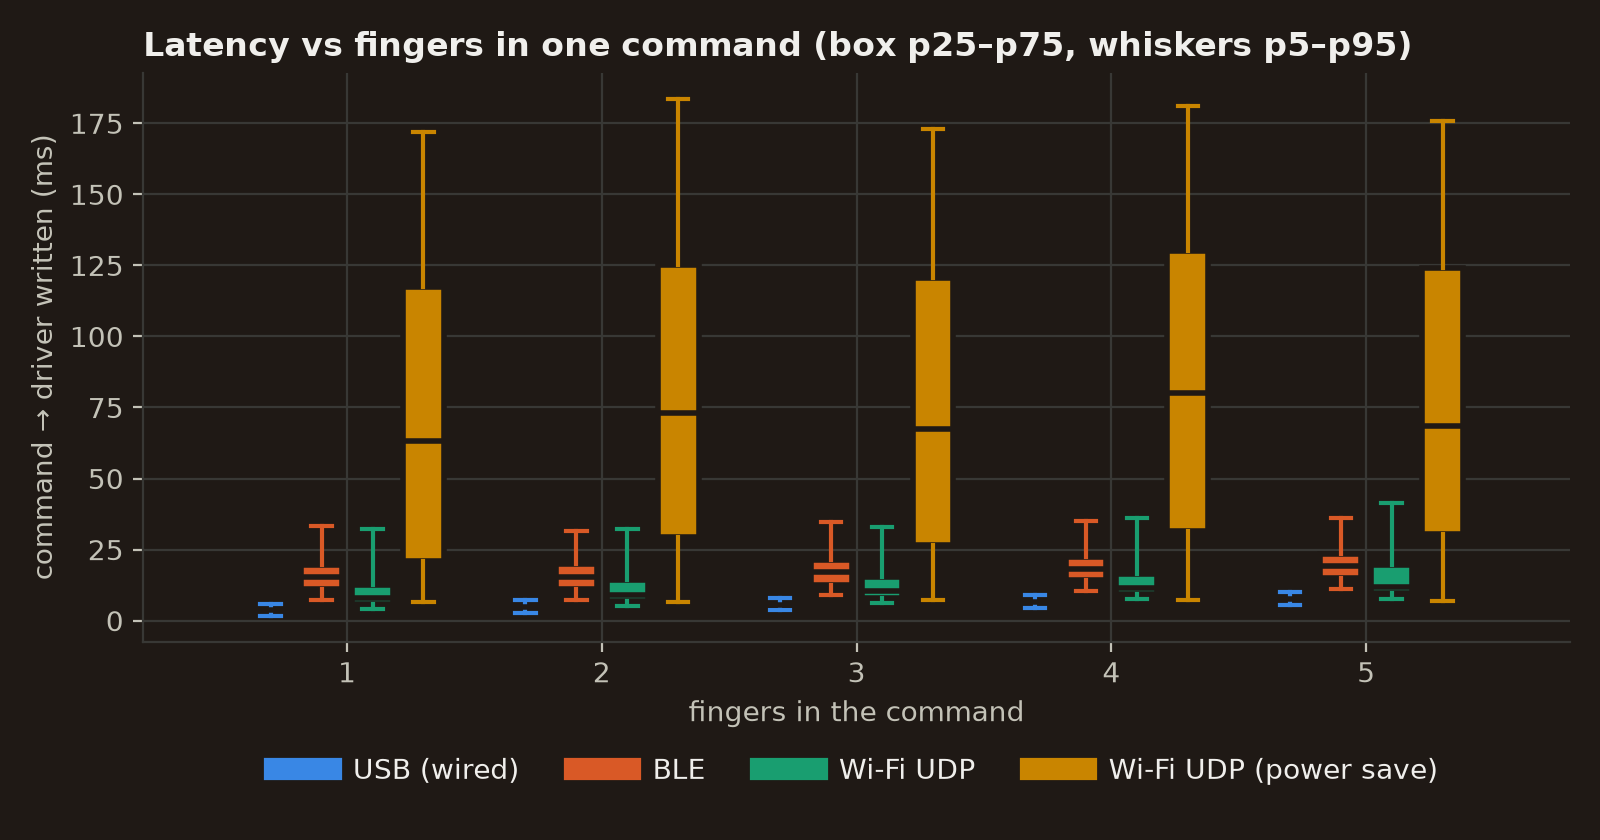
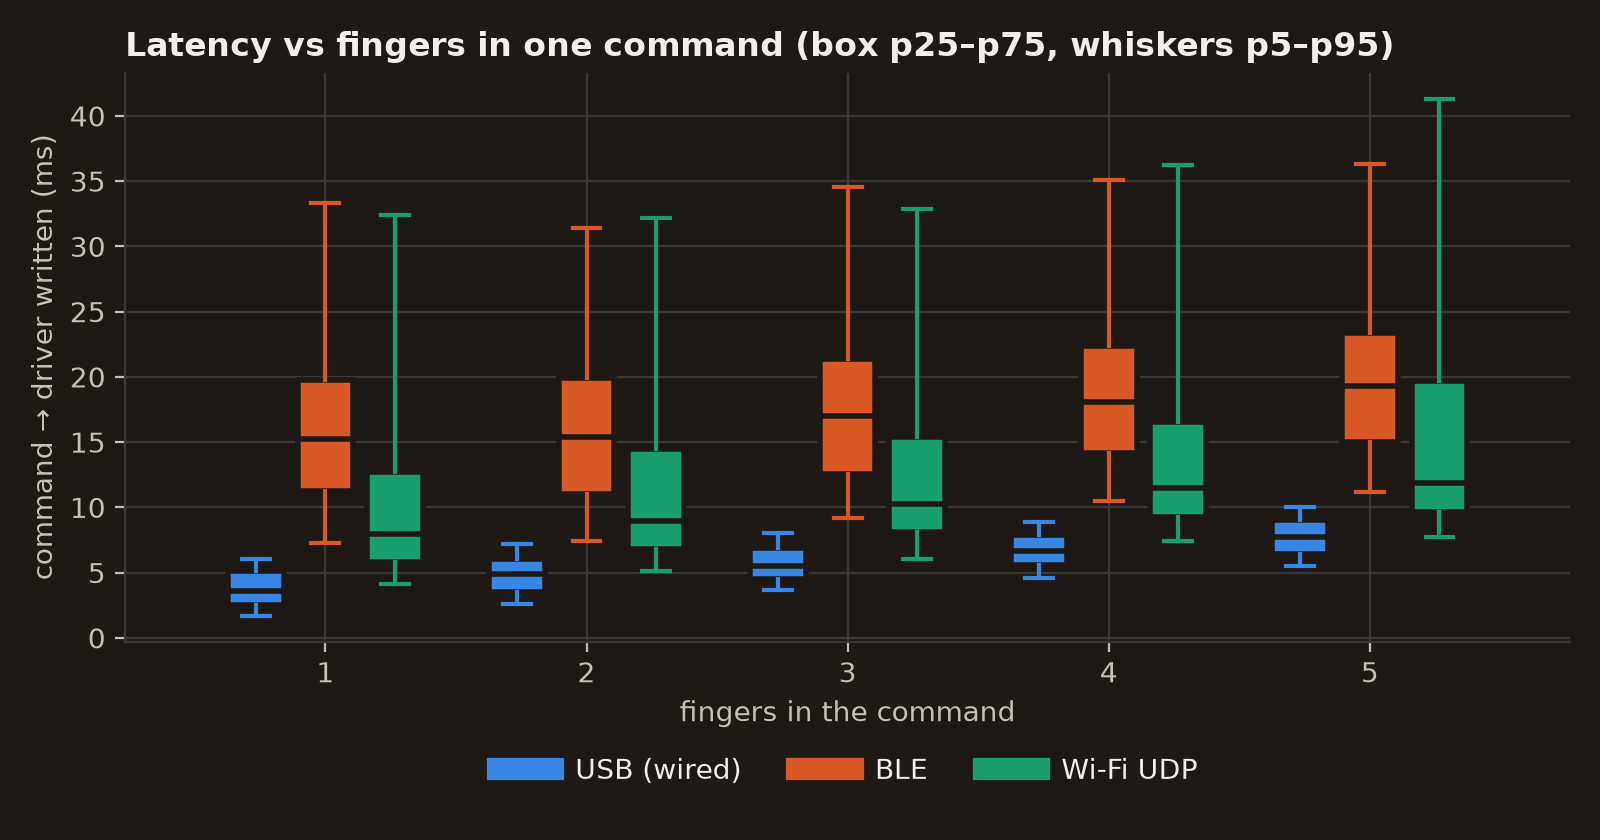
Phantom Touch: name the TCA9548A mux, focus Phase 1 charts
- Mention the TCA9548A multiplexer in the prototype description
- Explain why both Wi-Fi power-save configurations were set aside
- Redraw the fingers box plot with USB, BLE and Wi-Fi only, and explain
  the ~1 ms per finger I2C cost visible on the USB baseline
- Remove the tail and command-rate charts

diff --git a/js/work.js b/js/work.js
@@ -29,7 +29,7 @@ const work = [
       "Prior research helped shape that approach. [Preechayasomboon and Rombokas (2021)](https://doi.org/10.3389/frvir.2021.738613) demonstrated **Haplets**, finger-worn vibrotactile devices that leave the fingertips free, which informed the placement of Phantom Touch's actuators on the backs of the fingers. [Tran et al. (2023)](https://doi.org/10.1145/3544548.3581473) examined how tactile feedback through the fingernail can enrich on-body touch input, including button-like sensations. [Chan et al. (2021)](https://doi.org/10.1109/WHC49131.2021.9517177) introduced **Hasti**, which synthesizes vibrotactile feedback and contact sounds during virtual texture interactions, pointing to a possible future direction for Phantom Touch.",
       { h: "Building the Glove", label: "Phase 1 (Complete)" },
       { h: "Prototype", level: 2 },
-      "I began by assembling a low-cost prototype and establishing a way to trigger haptic patterns. The glove uses one **ERM vibration motor and motor driver per finger**, a 1200 mAh battery with power-management circuitry, three capacitive touch sensors, and an OLED for navigation and debugging.",
+      "I began by assembling a low-cost prototype and establishing a way to trigger haptic patterns. The glove uses one **ERM vibration motor and DRV2605L motor driver per finger**. All five drivers share the same I²C address, so a **TCA9548A 8-channel I²C multiplexer** sits between the ESP32-S3 and the drivers and routes each command to the right finger. The glove also has a 1200 mAh battery with power-management circuitry, three capacitive touch sensors, and an OLED for navigation and debugging.",
       "An **ESP32-S3** gives the prototype both Bluetooth Low Energy (BLE) and 2.4 GHz Wi-Fi connectivity, so I can compare the options as the system develops. The electronics sit on flexible perfboard attached with Velcro, making the fabric removable for cleaning. Replaceable adhesive tabs hold the motors in place while I investigate their placement.",
       "The prototype can already play haptic patterns from its embedded interface and a PC-based BLE client. With this basic feedback loop working, I **measured latency over BLE and Wi-Fi** to choose how commands should reach the glove in the next phase.",
       { h: "Latency Evaluation", level: 2 },
@@ -38,36 +38,28 @@ const work = [
       {
         figures: [
           {
-            src: "images/projects/phantom-touch/latency-tail.png",
-            srcDark: "images/projects/phantom-touch/latency-tail-dark.png",
-            alt: "Log-scale chart of how often a command is slower than a given latency. USB drops to zero by about 11 ms and BLE by about 81 ms. Wi-Fi with power saving off keeps a tail out to about 198 ms. Wi-Fi with power saving on and Wi-Fi sharing the radio with BLE extend to about 300 and 390 ms.",
-            caption: "**How often a command is slower than X**, pooled over 1,600 commands per link (1–5 fingers and emergency stop). BLE's slowest command took 81 ms. Wi-Fi's long tail reached 198 ms.",
-            wide: true,
-          },
-          {
             src: "images/projects/phantom-touch/latency-percentiles.png",
             srcDark: "images/projects/phantom-touch/latency-percentiles-dark.png",
             alt: "Median, 95th and 99th percentile latency per link: USB 6, 9 and 10 ms; BLE 17, 35 and 46 ms; Wi-Fi 10, 35 and 77 ms; Wi-Fi with power saving 72, 177 and 222 ms; Wi-Fi with power saving and BLE coexistence 31, 107 and 181 ms.",
-            caption: "**Median, p95 and p99 by link.** Wi-Fi has the lower median, but BLE has the much shorter worst case.",
-            wide: true,
-          },
-          {
-            src: "images/projects/phantom-touch/latency-by_fingers.png",
-            srcDark: "images/projects/phantom-touch/latency-by_fingers-dark.png",
-            alt: "Box plots of latency for one to five fingers per command on each link. Within each link, latency rises only a few milliseconds from one to five fingers.",
-            caption: "**Fingers per command.** Driving five fingers instead of one adds about 4 ms on every link.",
-            wide: true,
-          },
-          {
-            src: "images/projects/phantom-touch/latency-rate.png",
-            srcDark: "images/projects/phantom-touch/latency-rate-dark.png",
-            alt: "p95 latency and command loss against command rate from 10 to 200 per second. BLE, Wi-Fi and USB stay flat with no loss. Wi-Fi with power saving improves at higher rates because steady traffic keeps the radio awake.",
-            caption: "**Command rate.** No link lost commands up to 200 per second. Wi-Fi's power-saving mode is slowest at low rates.",
+            caption: "**Median, p95 and p99 by link**, pooled over 1,600 commands per link (1–5 fingers and emergency stop). Wi-Fi has the lower median, but BLE has the much shorter worst case.",
             wide: true,
           },
         ],
       },
-      "**Results:** Wi-Fi with power saving disabled had the lowest median wireless latency, **10 ms versus 17 ms for BLE**. BLE was far more consistent. Its 99th-percentile latency was **46 ms versus 78 ms**, and its slowest command took **81 ms versus 198 ms**. BLE delivered every command, including streams of 200 per second. With Wi-Fi's default power saving, the median rose to **72 ms**. When Wi-Fi shared the radio with BLE, about **3% of commands were lost**. The number of fingers per command had little effect on any link. About 5 ms of every command is spent on the glove itself, so optimizing the firmware will benefit whichever link is used.",
+      "Two Wi-Fi configurations were set aside after this comparison. With **power saving on**, the radio sleeps between the router's beacons and only collects waiting messages when it wakes, which pushed the median to **72 ms** and the 99th percentile to **222 ms**. With **power saving on and BLE running**, the two radios share one antenna and take turns, so Wi-Fi commands waited for BLE's time slots: about **3% of commands were lost** and the slowest took **391 ms**. On the ESP32-S3, Wi-Fi power saving cannot be turned off while BLE is active, so this is also the only way to run both radios at once. Neither configuration is usable for haptic feedback, so the rest of the analysis compares USB, BLE and Wi-Fi with power saving off.",
+      {
+        figures: [
+          {
+            src: "images/projects/phantom-touch/latency-by_fingers.png",
+            srcDark: "images/projects/phantom-touch/latency-by_fingers-dark.png",
+            alt: "Box plots of latency for one to five fingers per command over USB, BLE and Wi-Fi with power saving off. USB medians step up from about 3.6 to 7.8 ms. BLE sits between about 15 and 19 ms and Wi-Fi between about 8 and 12 ms, with much wider spread.",
+            caption: "**Fingers per command** over USB, BLE and Wi-Fi (power saving off). Boxes span the 25th to 75th percentile and whiskers the 5th to 95th. Each extra finger adds about 1 ms, clearest on the USB baseline.",
+            wide: true,
+          },
+        ],
+      },
+      "On the USB baseline, latency rises by about **1 ms per finger**, from a median of **3.6 ms** for one finger to **7.8 ms** for five. The glove's timestamps place the whole increase in the I²C stage, while transfer time over the link stays constant. Because the drivers share one address, the multiplexer must switch to each finger's channel before that driver can be written, so fingers are updated one after another on a 100 kHz bus. The radios carry the same cost, but their own variation largely hides it. Running the bus at 400 kHz should reduce it.",
+      "**Results:** Wi-Fi with power saving disabled had the lowest median wireless latency, **10 ms versus 17 ms for BLE**. BLE was far more consistent. Its 99th-percentile latency was **46 ms versus 78 ms**, and its slowest command took **81 ms versus 198 ms**. BLE delivered every command, including streams of 200 per second. About 5 ms of every command is spent on the glove itself, so optimizing the firmware will benefit whichever link is used.",
       "**Conclusion:** I selected **Bluetooth Low Energy** as the glove's wireless link. For tactile feedback, an occasional very late pulse is more disruptive than one that is consistently a few milliseconds slower. I therefore prioritized **worst-case latency and reliability over the median**. BLE also avoids Wi-Fi's need to disable power saving, which is likely to increase battery drain, although I have not measured that yet. These are bench measurements of when the glove commands a motor, not perceptual results. Phase 2 will test the link under real conditions, including distance, the hand blocking the signal, and motor spin-up time.",
       { h: "Connecting XR Interactions", label: "Phase 2 (In Progress)" },
       "The next step is to connect virtual interaction events to the glove. I plan to use a **Unity keyboard prototype** in which each key produces two tactile events: one when a finger touches the key and another when it is pressed. To relay these events to individual actuators, I will evaluate existing BLE tools or build a custom tool if current options do not support the data capture, analysis, and frequency control I need.",
